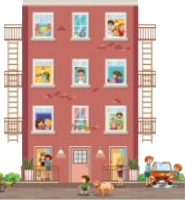
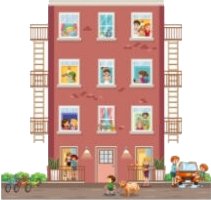
Atualiza a atividade

diff --git a/index.html b/index.html
@@ -1571,7 +1571,7 @@ var POEMA = {
 /* ⚠ A MARCA DE VERSÃO NA FIGURA. Quando eu troco uma figura, o NOME do arquivo
    continua o mesmo — e o navegador da escola serve a cópia velha do cache.
    REGRA: mexeu em figura, sobe o VIMG no mesmo commit. */
-var VIMG = 2;
+var VIMG = 3;
 /* ⚠⚠ `draggable="false"` NÃO É DETALHE: toda imagem é arrastável de fábrica no
    navegador, e quando a criança apertava a figura e puxava, o Chrome começava o
    SEU arrasto nativo e disparava um `pointercancel` — o nosso arrasto morria no
